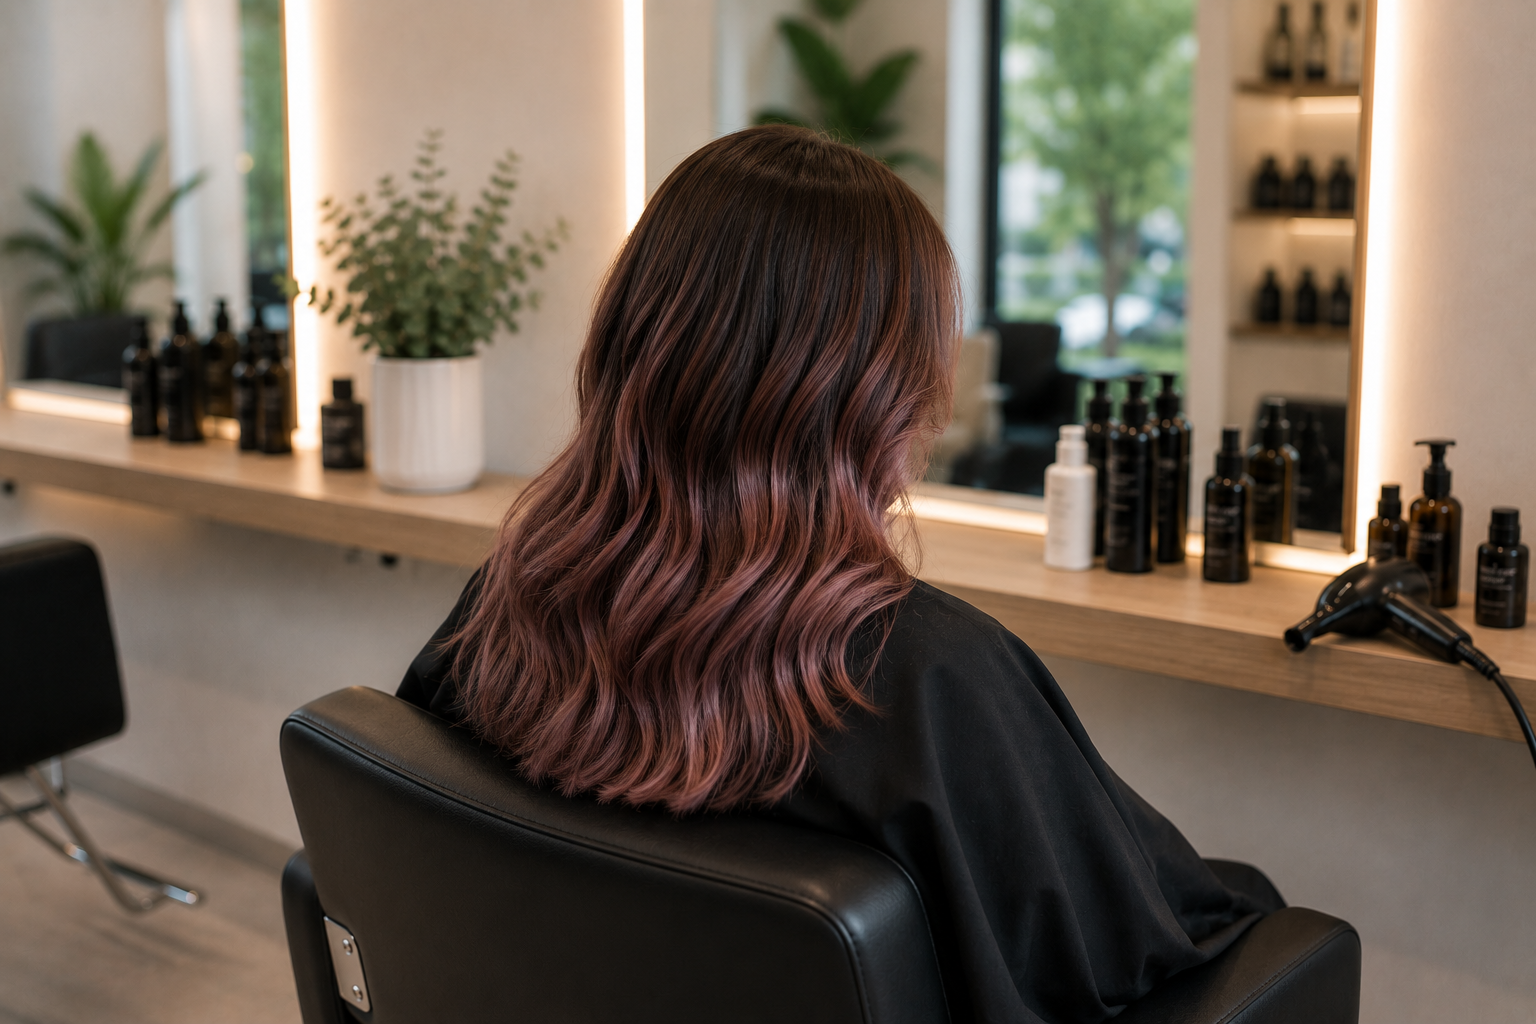
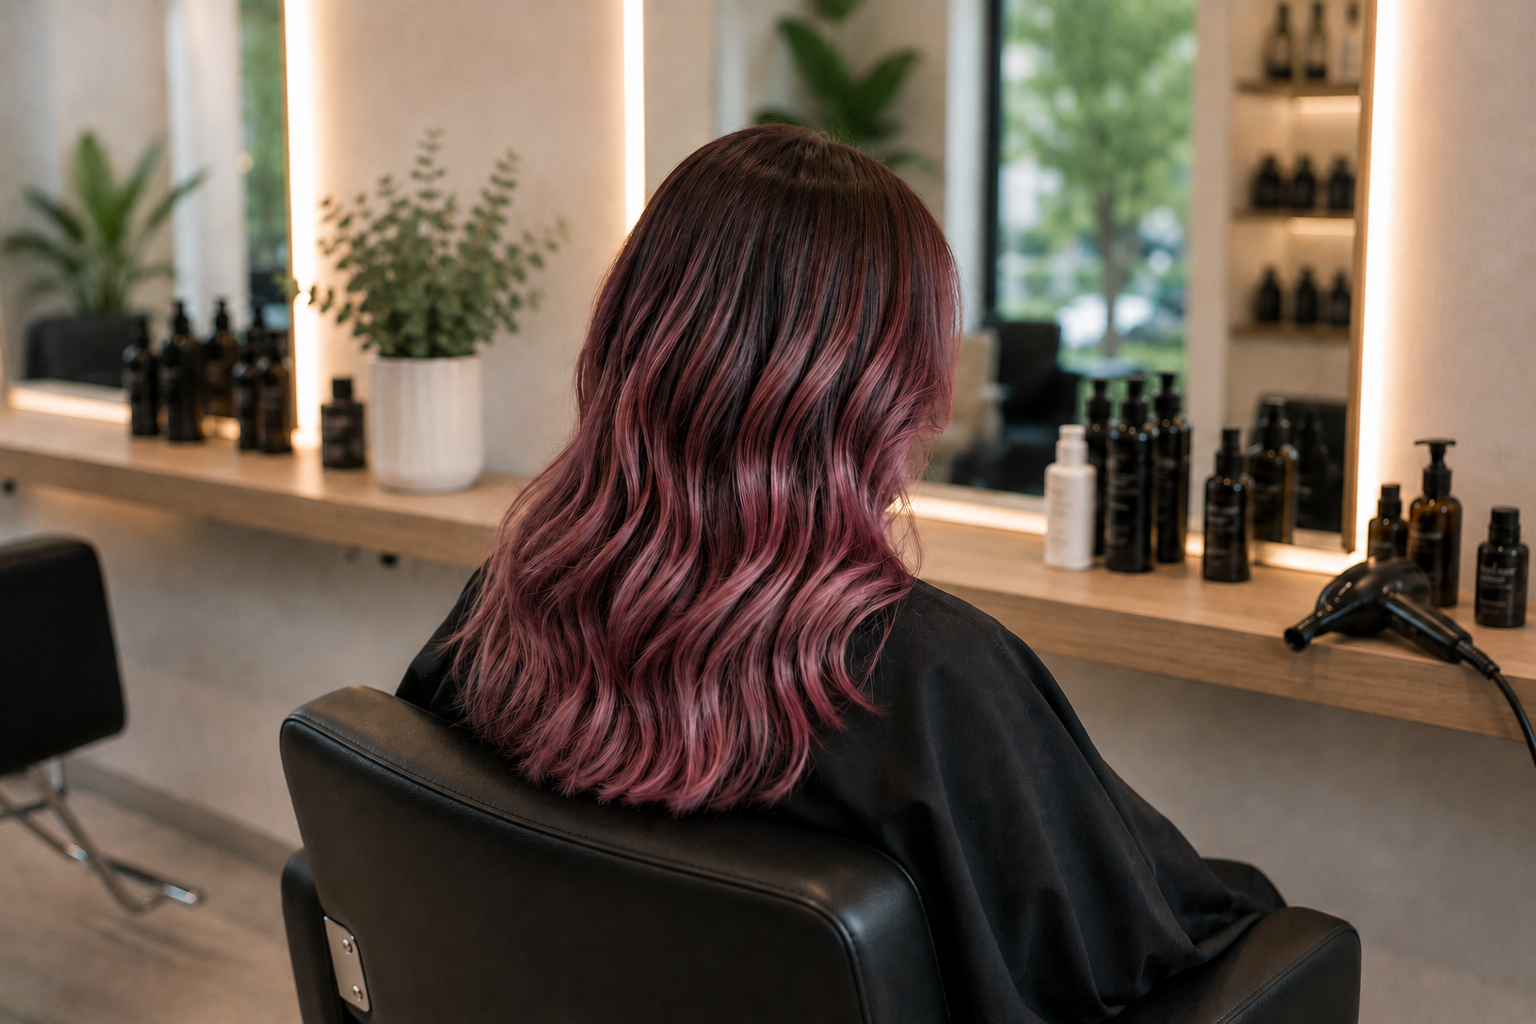
Refine kadernictvi, trener, and truhlar demo pages
- Polish copy and layout on kadernictvi index, kontakt, sluzby, tym, galerie
- Update gallery image and minor tweaks to trener and truhlar pages
- Update CHANGELOG

Changed region(s): [[0.2812, 0.2188, 0.625, 0.7812]]

diff --git a/CHANGELOG.md b/CHANGELOG.md
@@ -15,6 +15,28 @@
 
 ## 2026-06-20
 
+### Natural-Czech copy pass on demo pages (kadeřnictví, trenér, truhlář)
+Fixed phrasing that read as slightly literal/AI-ish per native-speaker review. Studio Luma
+team (`tym.astro`): reworked Klára/Nela/Eva `focus`/`line`/`book` strings and changed the
+member label to "Nejčastěji se k ní objednáte na" (book items lowercased to fit); updated the
+page meta description for Klára. Kadeřnictví: hero now "Střih, který drží tvar, a barva, která
+vám sedne i po odchodu ze salonu." (`index.astro`); home + galerie heading "Styl, který
+poznáte na první pohled"; team focus chip on home → "Přirozené střihy a jemné barvení";
+kontakt H1 "Pojďme se objednat" → "Domluvme termín". Sluzby: "Pro každou, kdo…" → "Pro
+každého, kdo… drží tvar", and color promise softened from "jistě a bez poškození vlasů" to
+"s ohledem na kondici vlasů a co nejšetrnějším postupem". Trenér (`trener.astro`): meter label
+"tvůj postup" → "váš postup" (tone consistency), "nezačínala z formy" → "ve formě", ceny note
+reworded. Truhlář (`truhlar.astro`): "staré dvířka" → "stará dvířka", hero em "řezaný přesně."
+→ "který sedí přesně.", "opravy ze dřeva" → "opravy dřevěného nábytku" (hero sub + meta).
+
+**Touched:** `src/pages/ukazky/kadernictvi/{tym,index,galerie,kontakt,sluzby}.astro`,
+`src/pages/ukazky/trener.astro`, `src/pages/ukazky/truhlar.astro`
+
+**Note:** Text-only edits inside existing template/JS literals. `astro check`/build couldn't run
+in this sandbox (missing `@rollup/rollup-linux-x64-gnu` native binary — platform issue, not these
+changes). Verified by grep: all 15 old phrases gone, new phrases present. trener.astro edited via
+`python3` (Edit-tool truncation guard, per earlier note).
+
 ### Upgraded landing showcase previews to each demo's hero photo
 The three single-page cards in `Showcase.astro` (Dílna Vorel, Kavárna Zrnko, Forma) now use
 the demo's own hero image as the browser-frame preview, matching the Studio Luma multi-page